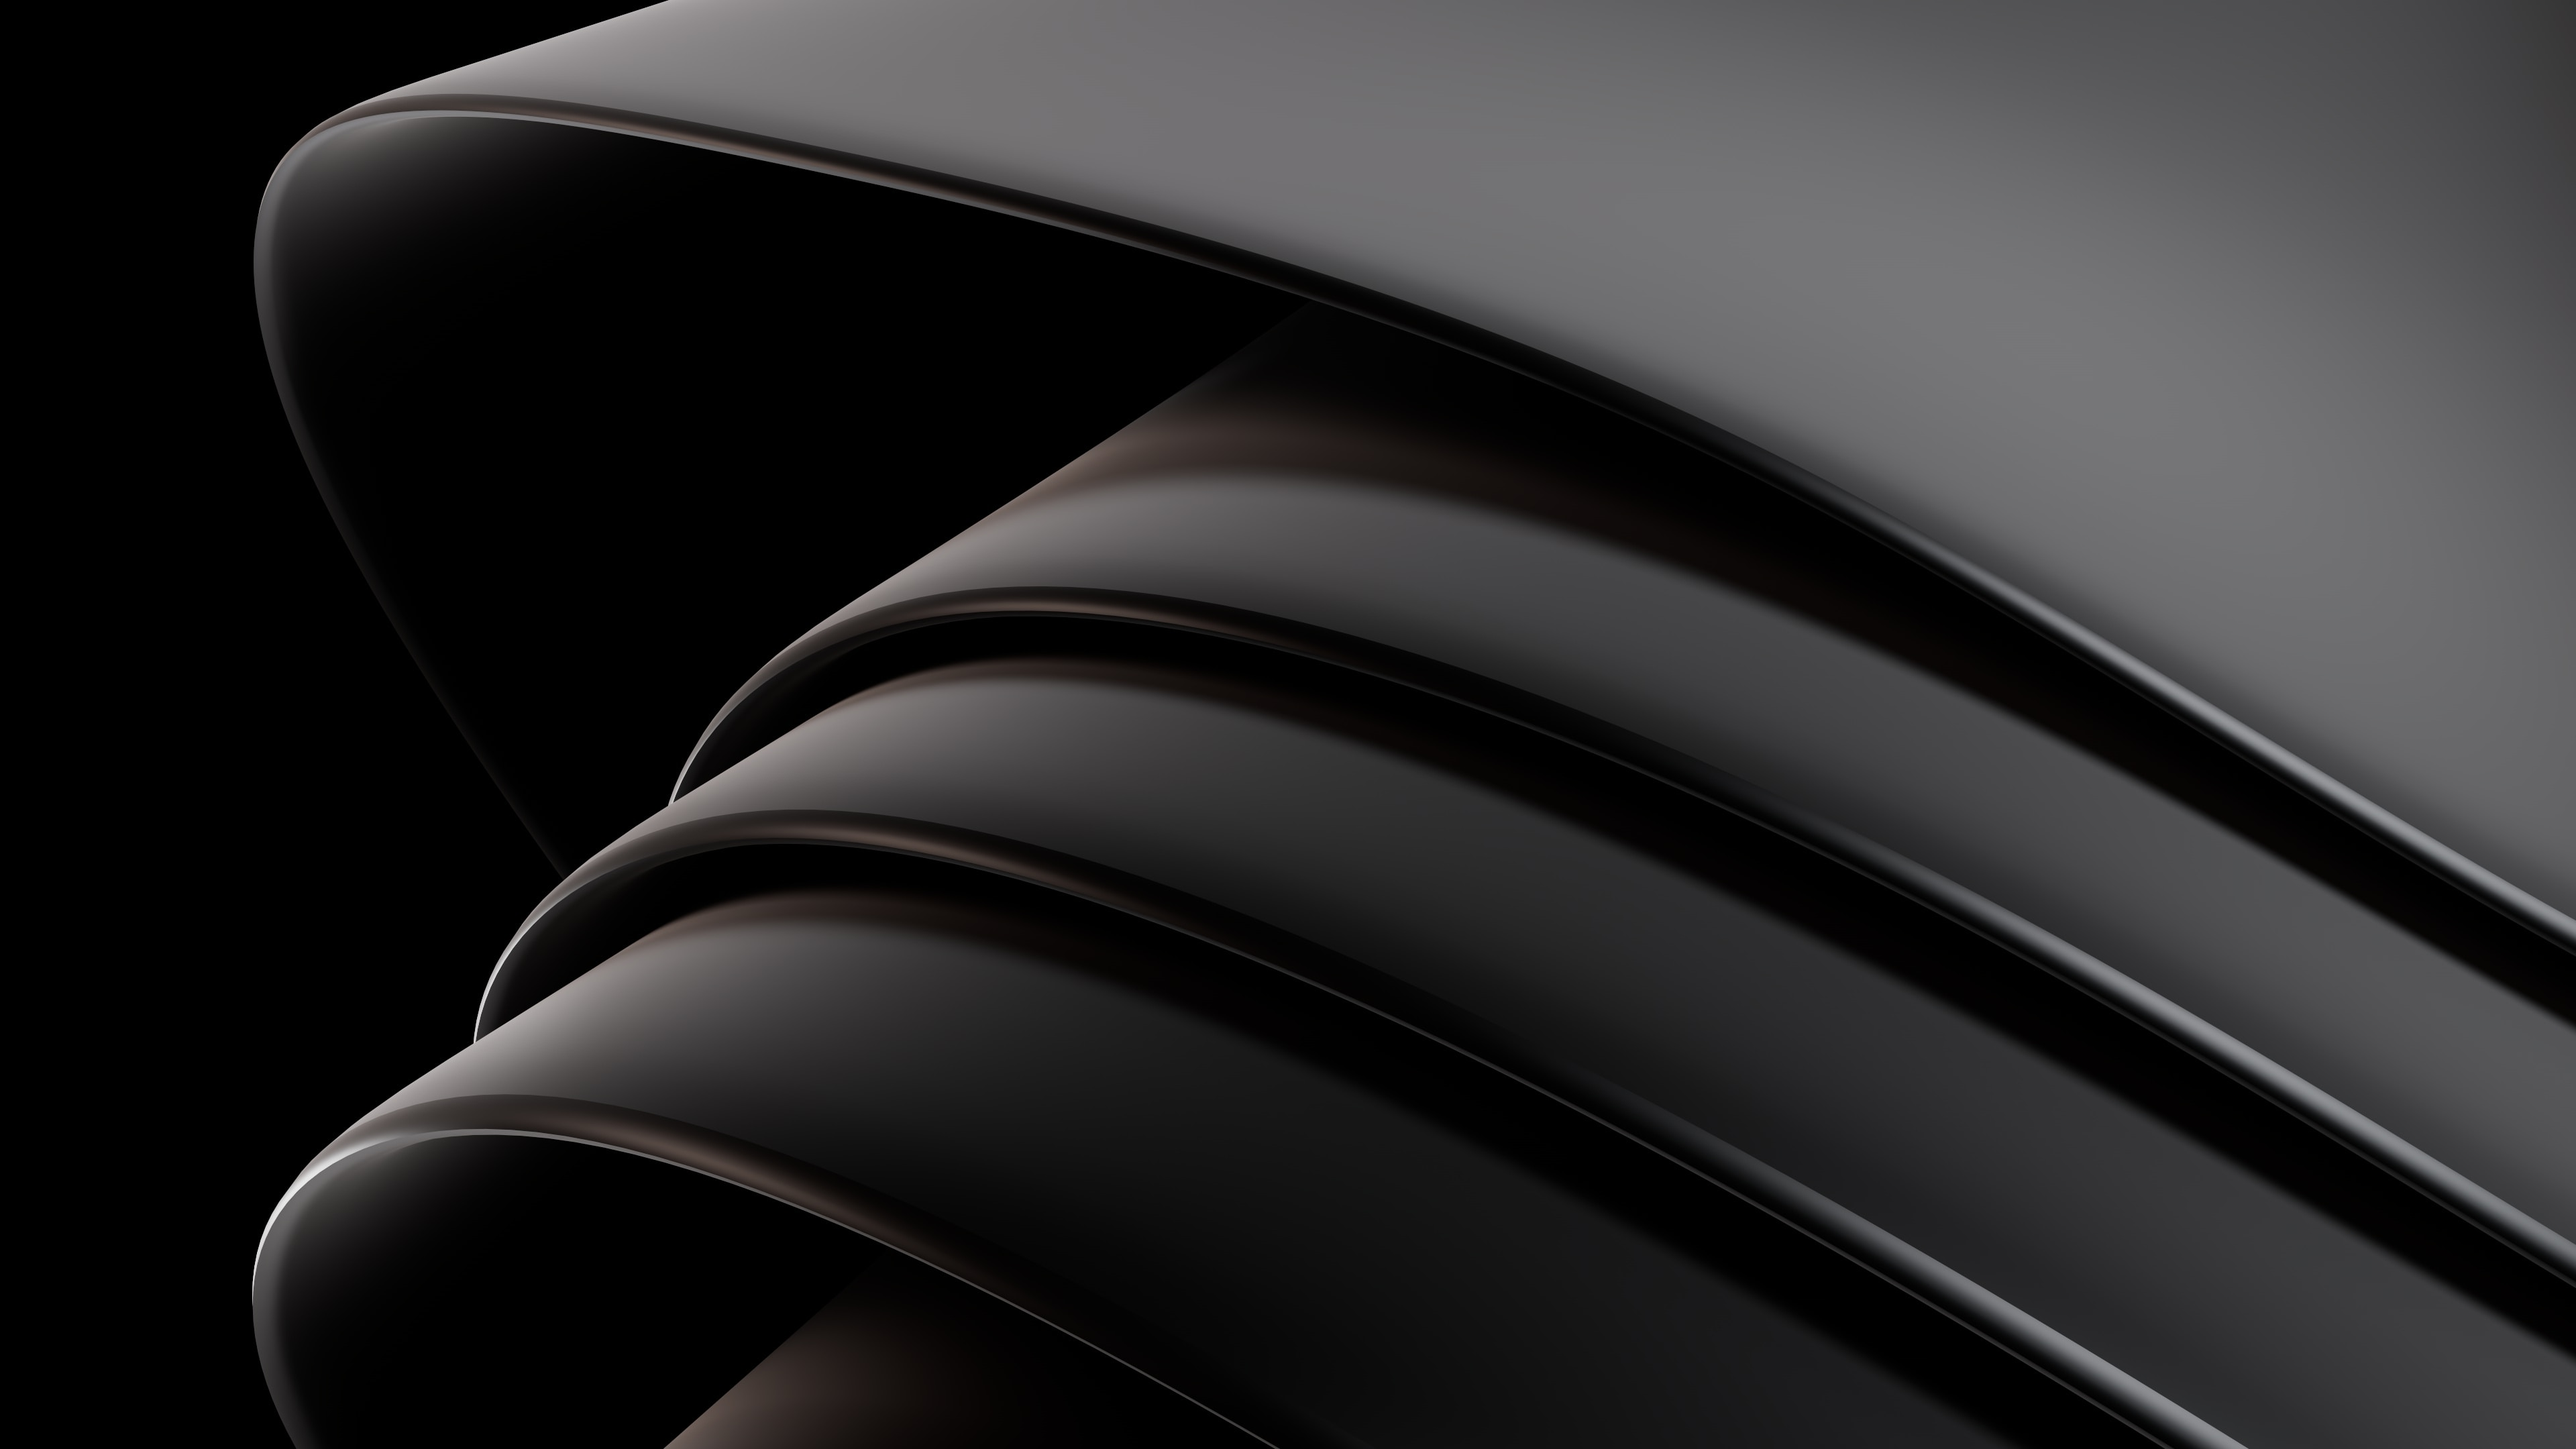
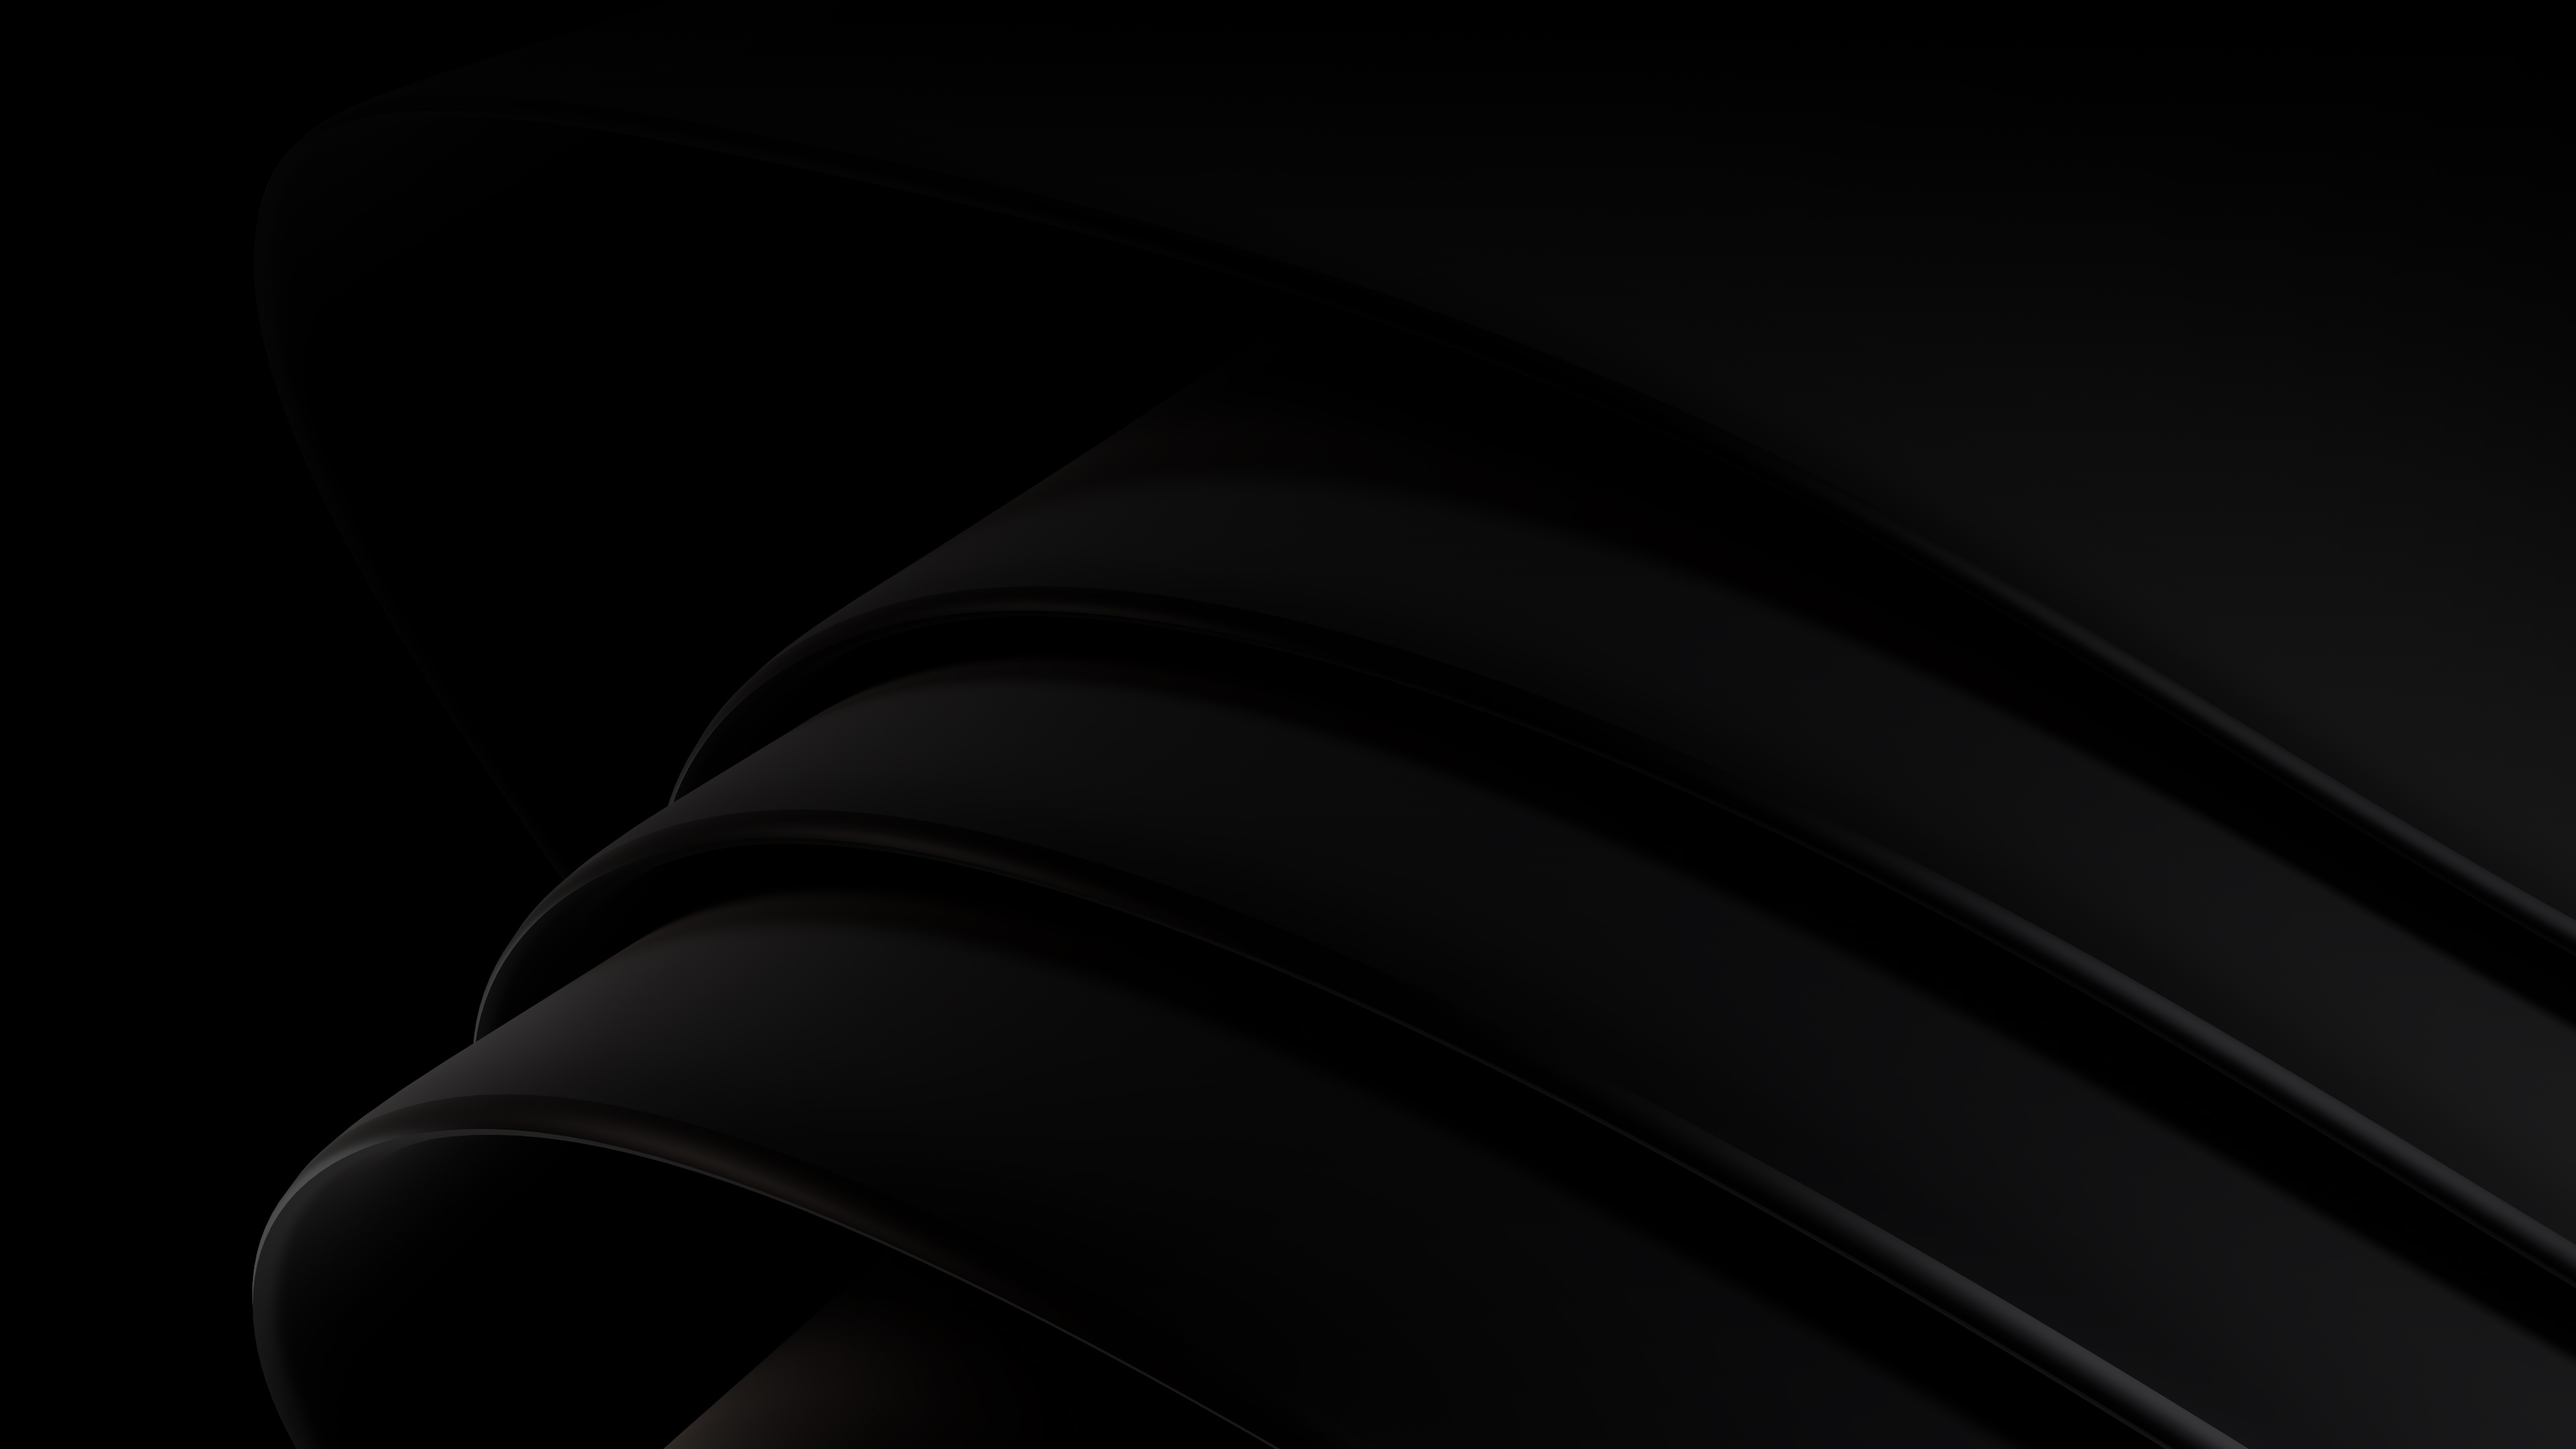
updated backgrounds

diff --git a/src/App.css b/src/App.css
@@ -44,11 +44,15 @@ html {
   flex-grow: 1;
   background-color: var(--bg-color);
   color: var(--text-color);
+  background: url("./assets/Background/light-bg.jpg") no-repeat center center
+    fixed;
+  background-size: cover;
 }
 
 header,
 footer {
   flex: 0 0 auto;
+  background-color: transparent;
 }
 
 a {
@@ -60,6 +64,9 @@ a {
   --text-color: #ffffff;
   background-color: var(--bg-color);
   color: var(--text-color);
+  background: url("./assets/Background/dark-bg.jpeg") no-repeat center center
+    fixed;
+  background-size: cover;
 }
 
 .app-container {
@@ -73,7 +80,15 @@ a {
   background-color: var(--primary-color);
   color: var(--text-s-color);
 }
-
+.app .app-container .glass {
+  border-top: 2px solid #ffffff75;
+  border-left: 2px solid #ffffff75;
+  box-shadow: 5px 5px 12px #00000035;
+  background: #ffffff25;
+  border-radius: 15px;
+  overflow: hidden;
+  backdrop-filter: blur(4px);
+}
 @media (max-width: 1200px) {
   html {
     font-size: 15px;

diff --git a/src/components/propertyList/propertyList.css b/src/components/propertyList/propertyList.css
@@ -10,12 +10,15 @@
   border-top: 2px solid #ffffff75;
   border-left: 2px solid #ffffff75;
   box-shadow: 5px 5px 12px #00000035;
-  background-color: rgba(0, 0, 0, 0.1);
+  background: #ffffff25;
   border-radius: 15px;
   overflow: hidden;
   backdrop-filter: blur(4px);
 }
 
+.property-list .property-card {
+  color: var(--text-color);
+}
 .property-card:hover {
   transform: translateY(-5px);
   box-shadow: 0 8px 15px var(--hover-shadow);
@@ -38,7 +41,7 @@
 .property-card p {
   margin: 5px 0;
   font-size: 0.9rem;
-  color: var(--secondary-color);
+  color: var(--text-color);
   text-align: center;
 }
 
@@ -62,13 +65,14 @@
 }
 
 .property-card button:hover {
-  background: var(--primary-color);
+  background: transparent;
   color: #fff;
+  border-color: #fff;
 }
 
 .property-card a {
   text-decoration: none;
-  color: var(--primary-color);
+  color: var(--text-color);
   font-size: 0.9rem;
   transition: color 0.2s ease;
 }

diff --git a/src/components/search/search.css b/src/components/search/search.css
@@ -2,7 +2,7 @@
   padding: 20px;
   display: flex;
   flex-direction: column;
-  background-color: var(--bg-color);
+  background-color: transparent;
   height: 100%;
 }
 
@@ -12,7 +12,7 @@
   margin-bottom: 20px;
 }
 
-\ .search-form button {
+.search-form button {
   padding: 10px 20px;
   font-size: 16px;
   background-color: var(--primary-color);
@@ -32,7 +32,6 @@
   margin-right: 300px;
   padding: 20px;
   box-sizing: border-box;
-  background-color: var(--bg-color);
 }
 
 .right-section {

diff --git a/src/components/searchForm/searchForm.css b/src/components/searchForm/searchForm.css
@@ -4,10 +4,10 @@
   padding: 20px;
   border-radius: 15px;
   box-shadow: 0 4px 30px rgba(0, 0, 0, 0.1);
-  background: rgba(255, 255, 255, 0.1);
-  backdrop-filter: blur(10px);
-  -webkit-backdrop-filter: blur(10px);
-  border: 1px solid rgba(255, 255, 255, 0.3);
+  background: rgba(255, 255, 255, 0);
+  backdrop-filter: blur(4px);
+  border-top: 2px solid #ffffff75;
+  border-left: 2px solid #ffffff75;
 }
 
 .search-form-container .row {

diff --git a/src/components/searchForm/searchForm.jsx b/src/components/searchForm/searchForm.jsx
@@ -42,7 +42,7 @@ const SearchForm = ({ onSearch }) => {
 
   return (
     <Form className="search-form" onSubmit={handleSubmit}>
-      <Container className="search-form-container glass">
+      <Container className="search-form-container">
         <Row className="mb-3">
           <Col xs={12} md={6} lg={3}>
             <Form.Group controlId="location">

diff --git a/src/components/footer/footer.css b/src/components/footer/footer.css
@@ -1,5 +1,5 @@
 .footer {
-  background-color: var(--bg-color);
+  background-color: transparent;
   color: var(--text-color);
   padding: 10px 0;
   width: 100%;
